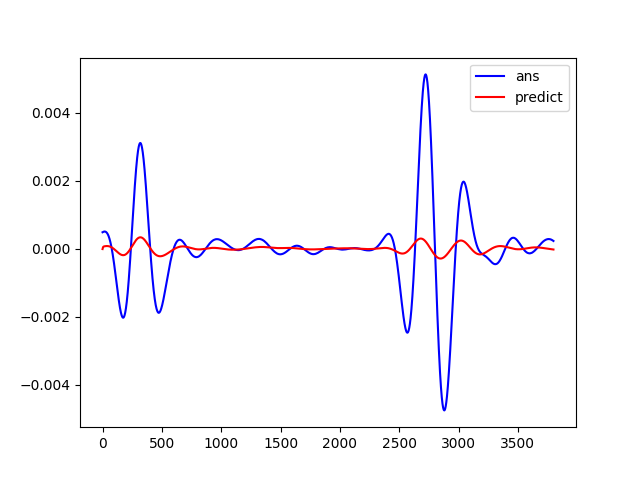
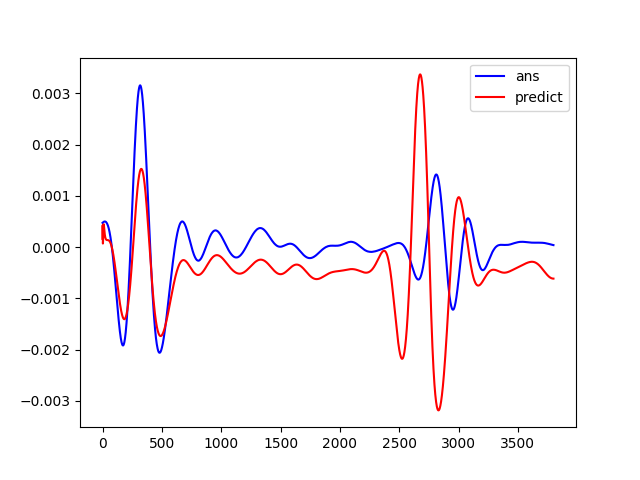
Some results

diff --git a/algorithm/train_LSTM_interpolation.py b/algorithm/train_LSTM_interpolation.py
@@ -14,7 +14,7 @@ from rich.progress import track
 
 input_dim = 4
 batch_size = 12
-epoch = 200
+epoch = 50
 
 if torch.cuda.is_available():
     device = 'cuda'
